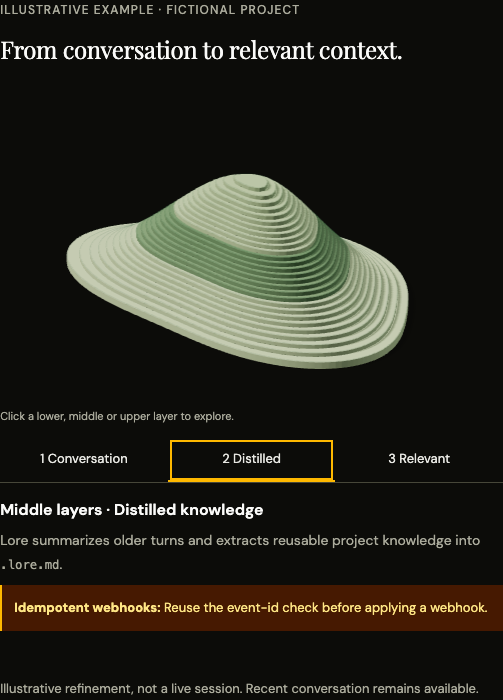
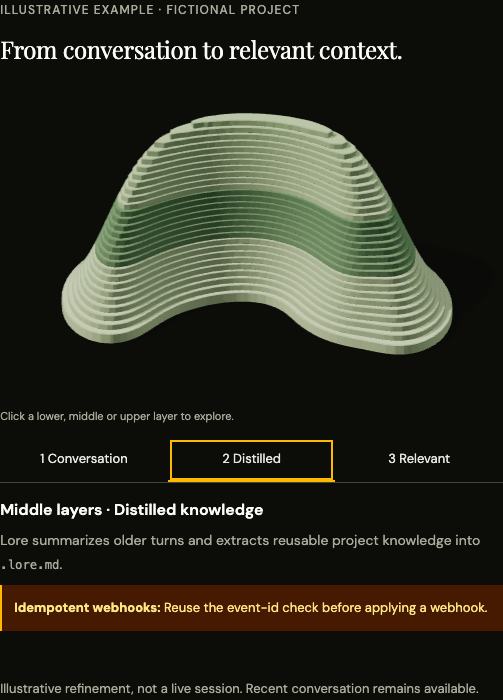
feat(website): Reshape the terrain as an open crescent ridge

Changed region(s): [[0.1193, 0.15, 0.9245, 0.54]]

diff --git a/packages/website/src/lib/memory-landscape.ts b/packages/website/src/lib/memory-landscape.ts
@@ -17,19 +17,26 @@ export function bandAtHeight(height: number): number {
 const outlineScale = (angle: number) =>
   1 + 0.09 * Math.sin(angle * 3) + 0.035 * Math.cos(angle * 2);
 export function terrainHeight(x: number, z: number): number {
-  const u = (x + 18 + 0.16 * (z + 8)) / 108,
-    v = (z + 8) / 78;
-  const radius = Math.hypot(u, v) / outlineScale(Math.atan2(v, u));
+  const dx = x + 10,
+    dz = z + 2,
+    phi = Math.atan2(dz, dx) + 2.16;
+  const v = Math.atan2(Math.sin(phi), Math.cos(phi)) / 1.8;
+  const u = (Math.hypot(dx, dz) - 70) / 35,
+    w = v * Math.abs(v);
+  const radius = Math.hypot(u, w) / outlineScale(Math.atan2(w, u));
   return 94 * Math.exp(-1.8 * radius * radius) - 8;
 }
 export function pointOnTerrain(height: number, angle: number): Point3 {
   const h = Math.max(0, Math.min(83.7, height));
   const radius = Math.sqrt(-Math.log((h + 8) / 94) / 1.8) * outlineScale(angle);
-  const z = -8 + Math.sin(angle) * 78 * radius;
+  const w = Math.sin(angle) * radius,
+    v = Math.sign(w) * Math.sqrt(Math.abs(w));
+  const r = 70 + Math.cos(angle) * 35 * radius,
+    phi = -2.16 + v * 1.8;
   return [
-    -18 + Math.cos(angle) * 108 * radius - 0.16 * (z + 8),
+    -10 + r * Math.cos(phi),
     Math.floor(h / TERRAIN_STEP) * TERRAIN_STEP + 1.5,
-    z,
+    -2 + r * Math.sin(phi),
   ];
 }
 export function refinementElevation(position: number): number {

diff --git a/packages/website/README.md b/packages/website/README.md
@@ -53,8 +53,8 @@ and sufficient device memory. Native stage controls work without JavaScript; SVG
 terrace selection remains available when GPU rendering is disabled. The renderer
 handles terrain raycasting, bounded rotation, a finite refinement transition, context loss
 and resource disposal. Geometry and browser tests cover the shared elevation bands,
-projection, selection and failure paths. The single terrain tapers toward one
-summit. Pure surface/retention helpers place transient fragments on terraces; their
+projection, selection and failure paths. The open crescent ridge narrows from wrapping lower terraces to an upper
+crest. Pure surface/retention helpers place transient fragments on terraces; their
 illustrative count falls during upward transitions. Colors are cached outside the
 frame loop. Rapid inputs retarget the displayed state; interruption settles it.
 Camera bounds cover drag, parallax, bevels and lower walls.

diff --git a/docs/website-ui/README.md b/docs/website-ui/README.md
@@ -18,7 +18,7 @@ conversation containing an editor-theme tangent to a distilled fact and relevant
 context for adding retries. Other history stays searchable and recent conversation
 remains available. It illustrates selection within a context budget, without
 claiming perfect filtering. Peak markers, floating labels and checkpoint routes
-are removed. One asymmetric landform narrows from a broad base to a single summit.
+are removed. An open crescent ridge wraps terraces around an inner valley and narrows to an upper crest.
 On selection, the band highlight sweeps between elevations while transient brass
 fragments climb and thin out. These are abstract details, not actual record counts.
 Rapid choices retarget the visible transition; hidden/offscreen/context-loss states

diff --git a/docs/superpowers/specs/2026-10-27-website-journey.md b/docs/superpowers/specs/2026-10-27-website-journey.md
@@ -102,3 +102,8 @@ are illustrative and transient, not checkpoint markers or real record counts.
 No idle loop. Selection/content updates immediately; rapid selections retarget from
 the visible transition. Reduced motion is immediate. Hidden/offscreen states and
 context loss settle to the selected stage and release/cancel temporary motion.
+
+The user requested changing the terrain again. Replace the mound with a winding
+ridge: broad, bent lower terraces taper to an elongated upper crest. Keep elevation
+selection and the refinement animation. Shared inverse coordinates keep moving
+fragments on the reshaped terraces; full camera-envelope checks still apply.
